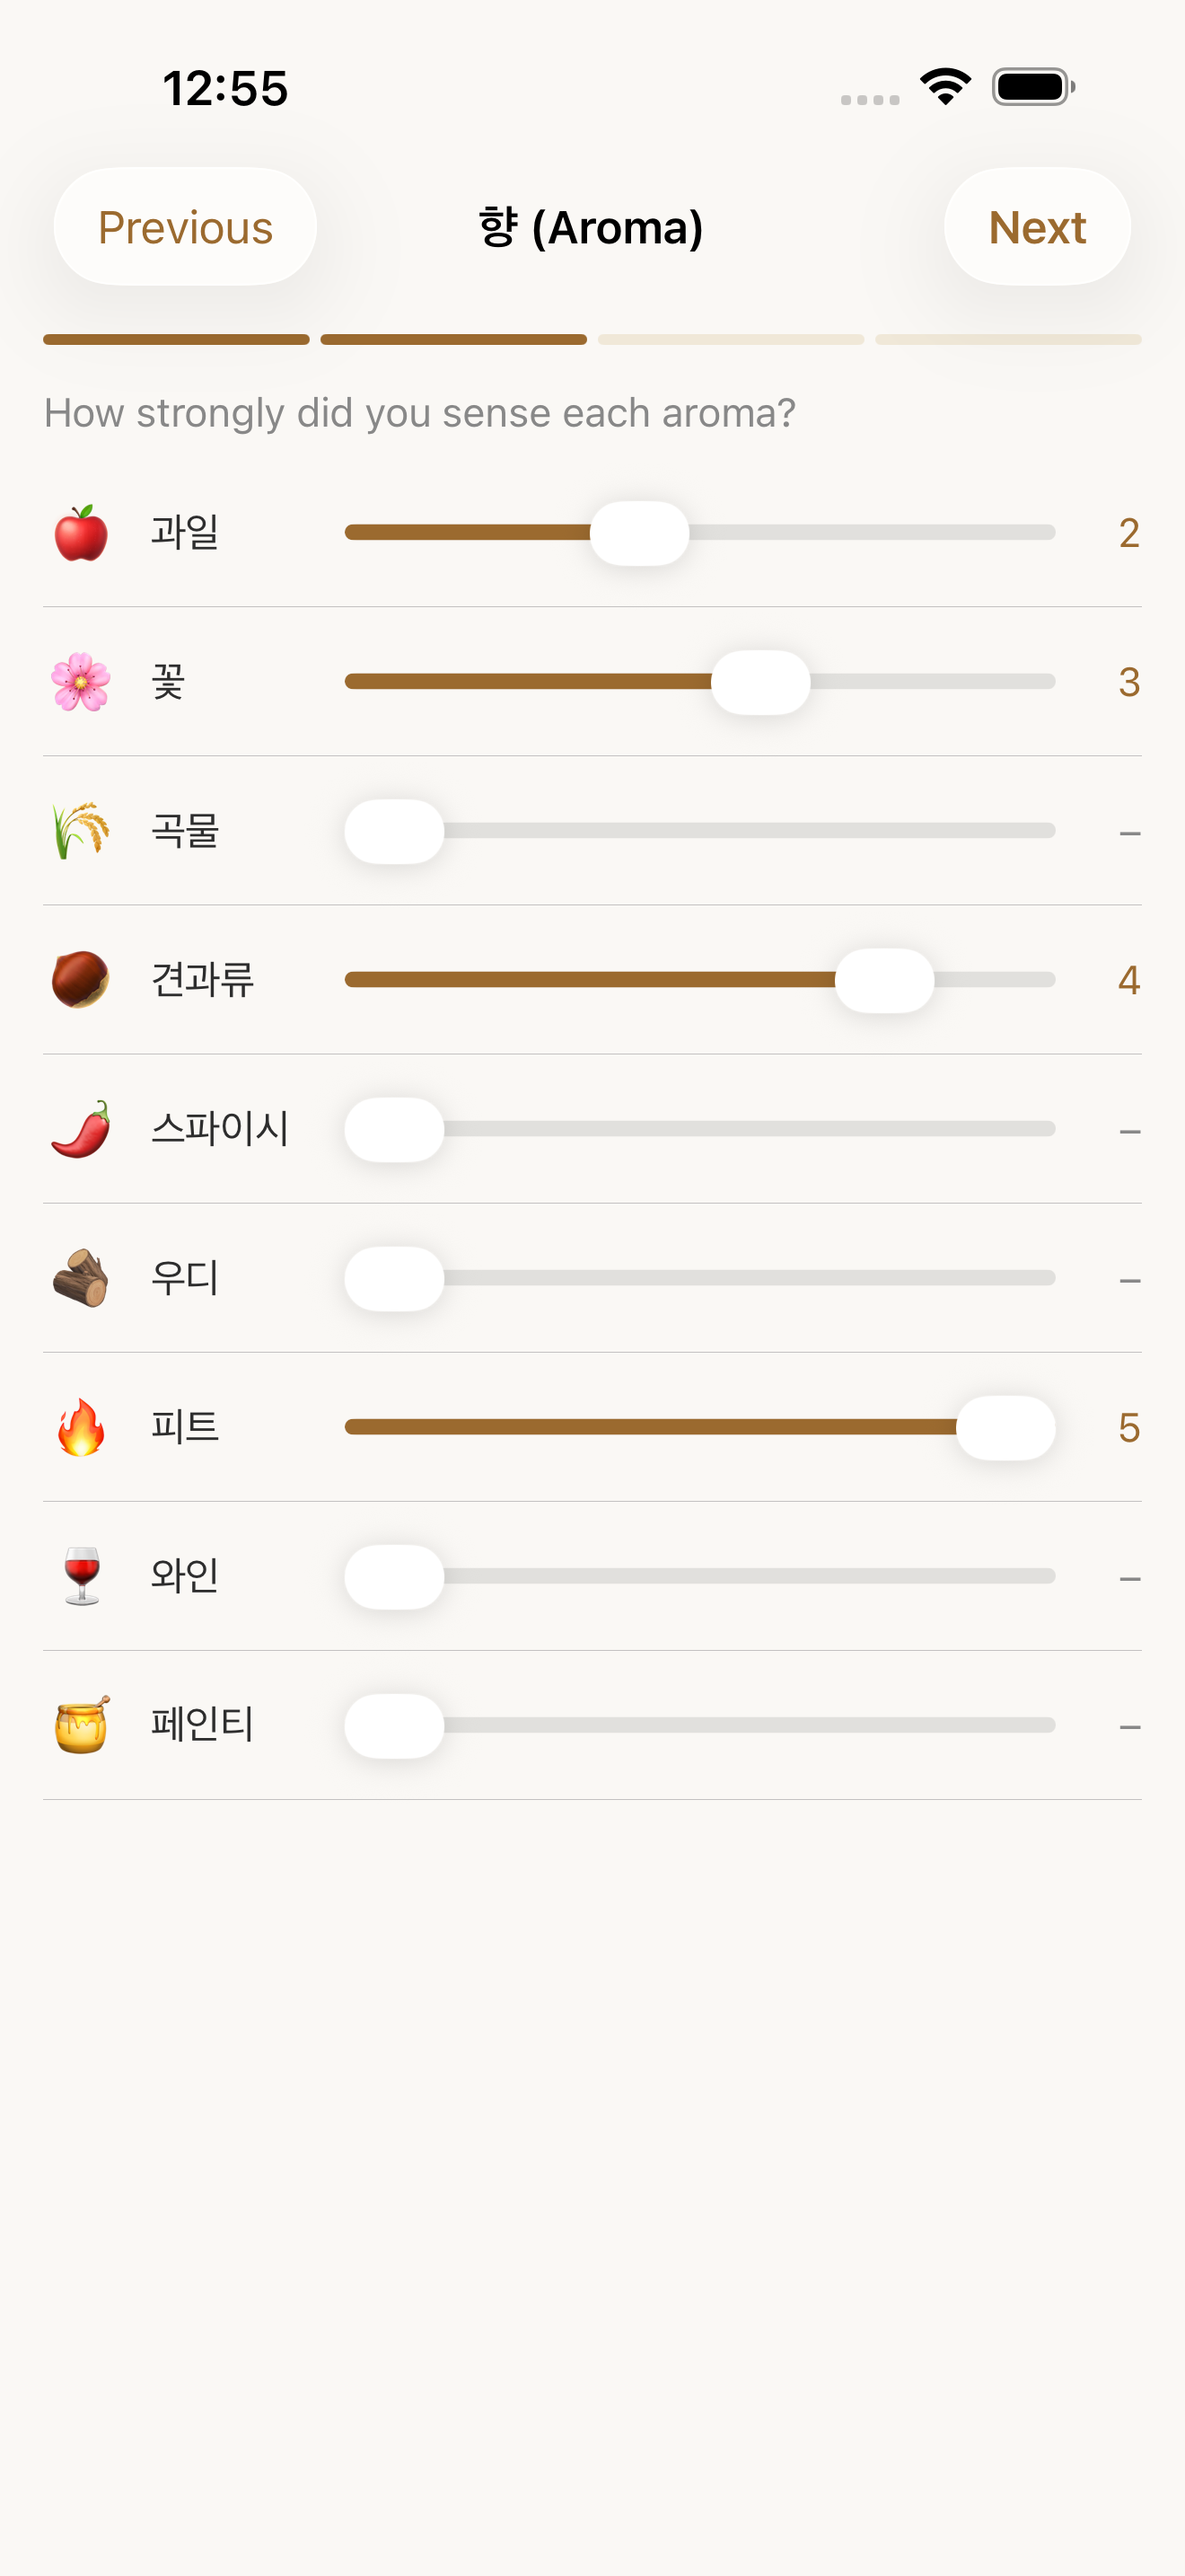
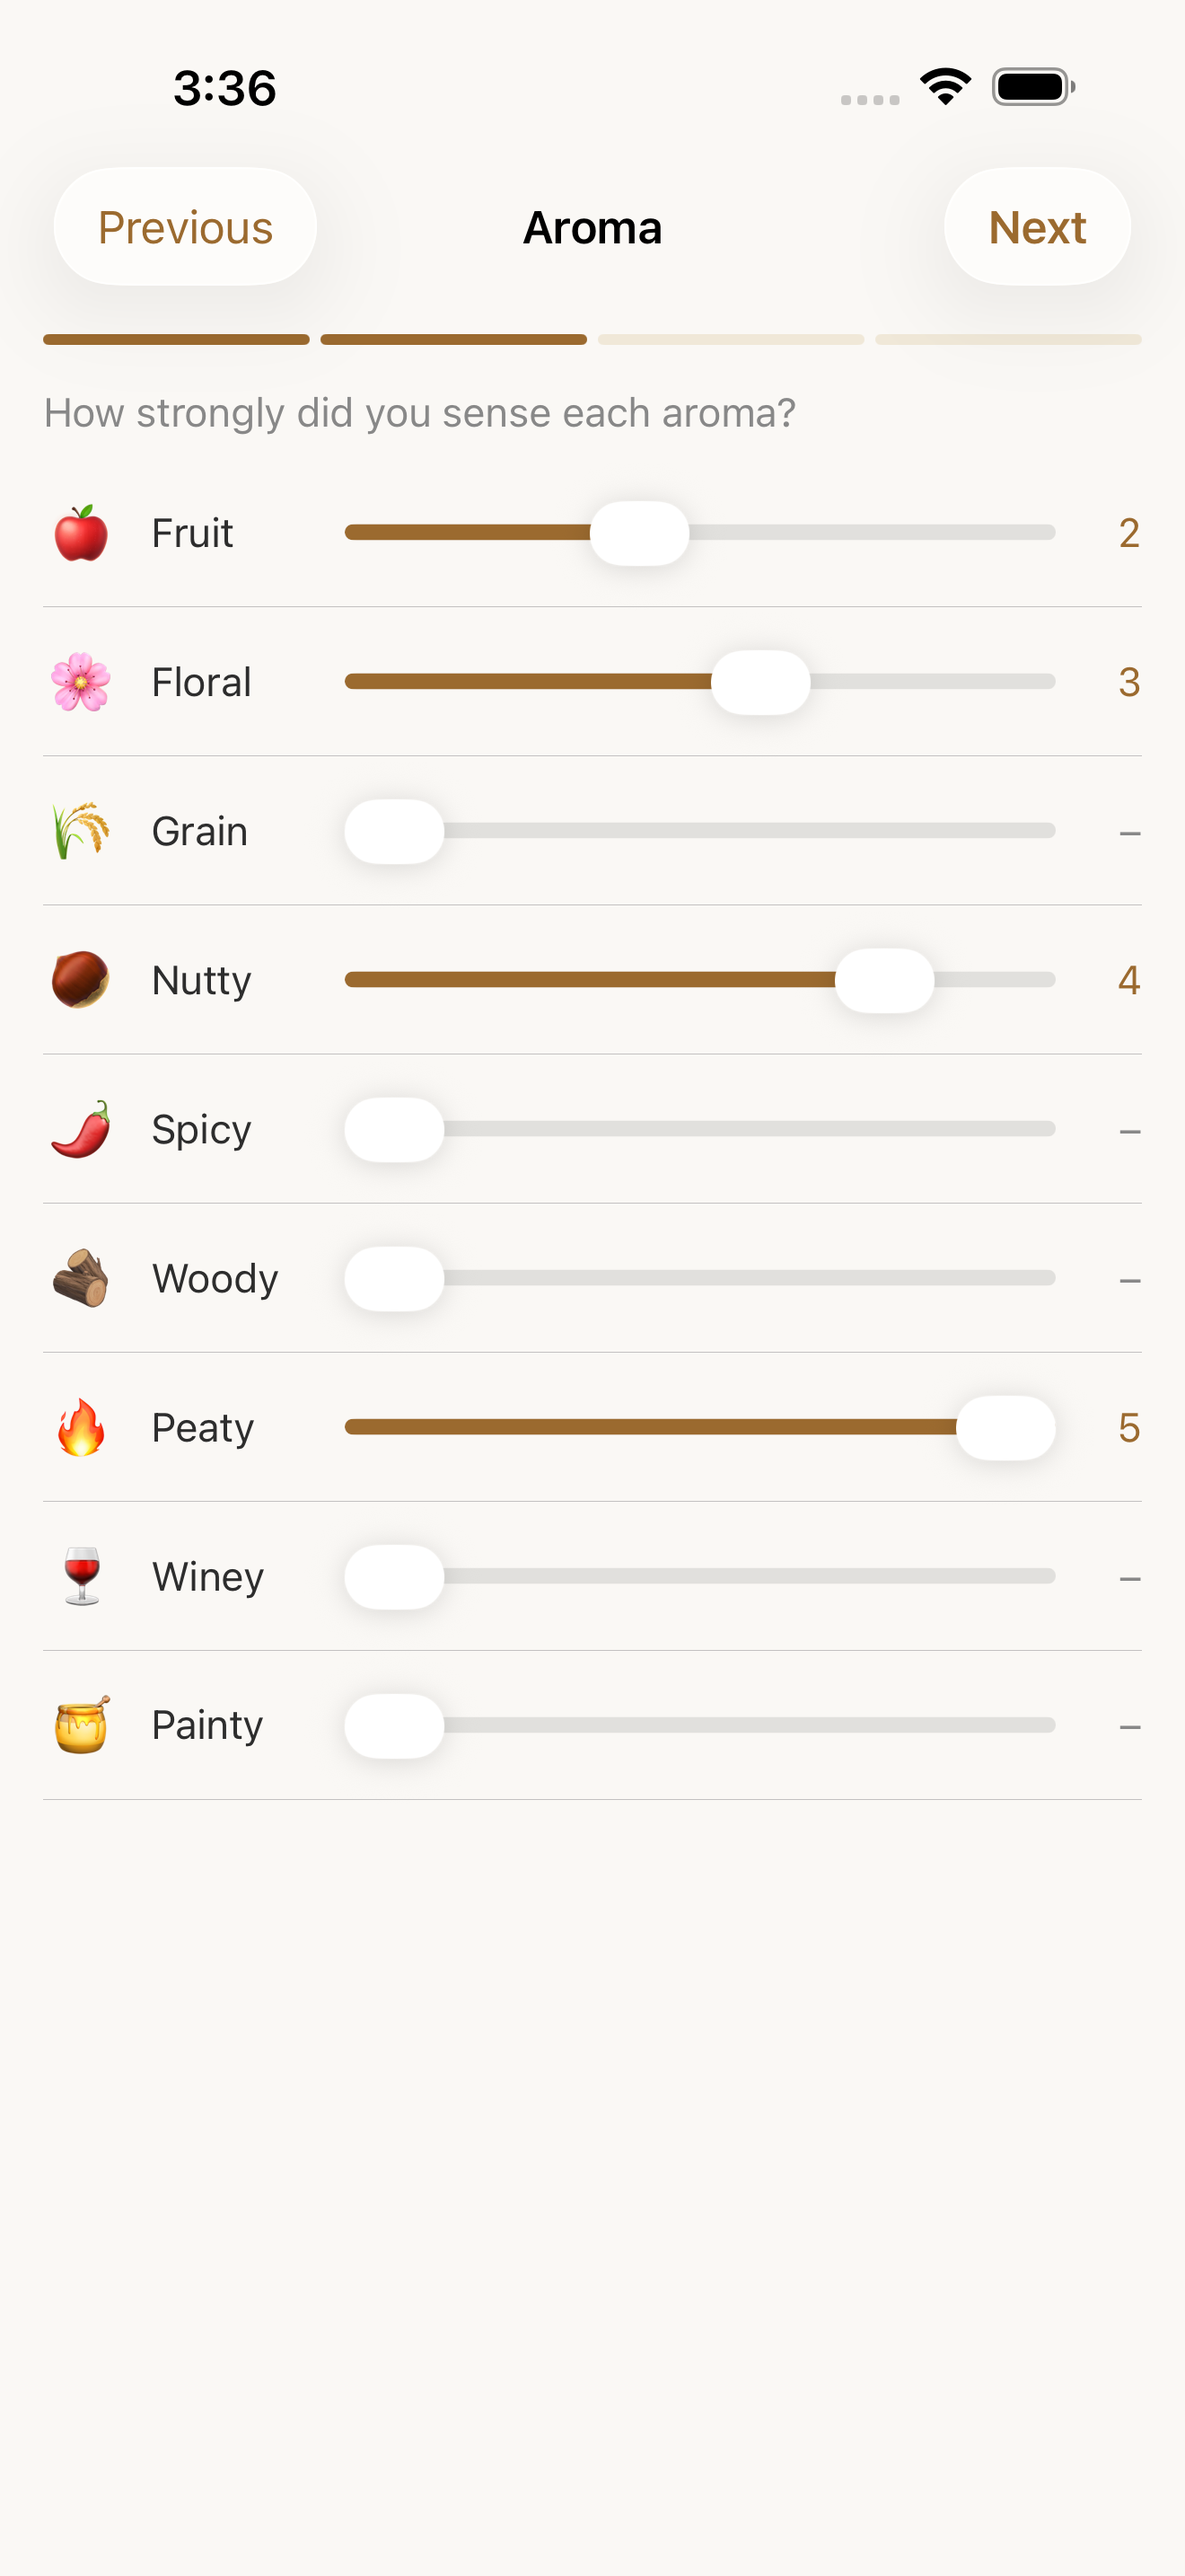
feat: 완전한 다국어(ko/en) 지원 구현
## 앱 코드 수정
- WhiskeyCategory: localizedName 추가 (String(localized:) 방식)
- Localizable.xcstrings: 카테고리 이름 6개 번역 추가
  (싱글 몰트/블렌디드/버번/아이리시/재패니즈/기타 ↔ Single Malt/Blended/...)
- FlavorSliderRow: Text(item.name) → Text(LocalizedStringKey(item.name))
- HomeView: statCell(label: LocalizedStringKey), topAromaName NSLocalizedString 적용
- NoteDetailView/NoteCardView: category localizedName, 플레이버명 NSLocalizedString
- WizardStep1View: formField(label: LocalizedStringKey), Picker → cat.localizedName
- WizardStep3View: Text(section.title) → Text(LocalizedStringKey(section.title))
- WizardStep4View: 삼항 연산자 → if/else (평가 없음 LocalizedStringKey 보장)
- NoteWizardView: stepTitle String(localized:) 적용 (accessibility 호환성 유지)
- StatsView: 향 이름 NSLocalizedString, 카테고리 localizedName 적용

## 스크린샷 재촬영
- ko/en 각 7장 전체 갱신 (다국어 완전 반영)

diff --git a/whiskey note/Views/Detail/NoteDetailView.swift b/whiskey note/Views/Detail/NoteDetailView.swift
@@ -99,7 +99,7 @@ struct NoteDetailView: View {
                 .font(.title2.bold())
                 .foregroundStyle(AppColors.textPrimary)
             HStack(spacing: 4) {
-                Text(note.category)
+                Text(WhiskeyCategory(rawValue: note.category)?.localizedName ?? note.category)
                 if let age = note.age { Text("· \(age)yr") }
                 if let abv = note.abv { Text(String(format: "· %.1f%%", abv)) }
                 if let price = note.price,
@@ -123,11 +123,11 @@ struct NoteDetailView: View {
                 .filter { $0.flavorType == section.type.rawValue && $0.intensity > 0 }
                 .sorted { $0.intensity > $1.intensity }
             if !items.isEmpty {
-                sectionHeader(section.title)
+                sectionHeader(LocalizedStringKey(section.title))
                 ForEach(items, id: \.id) { fi in
                     if let flavorItem = FlavorConstants.all.first(where: { $0.name == fi.name }) {
                         HStack {
-                            Text("\(flavorItem.emoji) \(fi.name)")
+                            Text("\(flavorItem.emoji) \(NSLocalizedString(fi.name, comment: ""))")
                                 .font(.subheadline)
                                 .foregroundStyle(AppColors.textPrimary)
                             Spacer()
@@ -146,7 +146,7 @@ struct NoteDetailView: View {
         }
     }
 
-    private func sectionHeader(_ title: String) -> some View {
+    private func sectionHeader(_ title: LocalizedStringKey) -> some View {
         Text(title)
             .font(.headline)
             .foregroundStyle(AppColors.accent)

diff --git a/whiskey note/Views/Stats/StatsView.swift b/whiskey note/Views/Stats/StatsView.swift
@@ -64,7 +64,7 @@ struct StatsView: View {
                 let maxAvg = topAromaData.first?.avg ?? 1
                 ForEach(topAromaData, id: \.name) { item in
                     HStack(spacing: 8) {
-                        Text("\(item.emoji) \(item.name)")
+                        Text("\(item.emoji) \(NSLocalizedString(item.name, comment: ""))")
                             .font(.subheadline)
                             .frame(width: 90, alignment: .leading)
                         GeometryReader { geo in
@@ -104,7 +104,7 @@ struct StatsView: View {
                 .foregroundStyle(AppColors.accent)
             FlowLayout(spacing: 8) {
                 ForEach(categoryCounts, id: \.category) { item in
-                    Text("\(item.category) \(Int(item.pct.rounded()))%")
+                    Text("\(WhiskeyCategory(rawValue: item.category)?.localizedName ?? item.category) \(Int(item.pct.rounded()))%")
                         .font(.caption)
                         .padding(.horizontal, 10)
                         .padding(.vertical, 5)

diff --git a/whiskey note/Views/NoteList/NoteCardView.swift b/whiskey note/Views/NoteList/NoteCardView.swift
@@ -26,7 +26,7 @@ struct NoteCardView: View {
             }
 
             HStack(spacing: 4) {
-                Text(note.category)
+                Text(WhiskeyCategory(rawValue: note.category)?.localizedName ?? note.category)
                 if let abv = note.abv {
                     Text("·")
                     Text(String(format: "%.1f%%", abv))
@@ -43,7 +43,7 @@ struct NoteCardView: View {
                 HStack(spacing: 6) {
                     ForEach(topAromaTags, id: \.id) { fi in
                         if let item = FlavorConstants.all.first(where: { $0.name == fi.name }) {
-                            Text("\(item.emoji) \(fi.name)")
+                            Text("\(item.emoji) \(NSLocalizedString(fi.name, comment: ""))")
                                 .font(.caption2)
                                 .padding(.horizontal, 8)
                                 .padding(.vertical, 3)

diff --git a/whiskey note/Views/Wizard/WizardStep1View.swift b/whiskey note/Views/Wizard/WizardStep1View.swift
@@ -59,7 +59,7 @@ struct WizardStep1View: View {
                     formField(label: "종류") {
                         Picker("종류", selection: $category) {
                             ForEach(WhiskeyCategory.allCases, id: \.rawValue) { cat in
-                                Text(cat.rawValue).tag(cat.rawValue)
+                                Text(cat.localizedName).tag(cat.rawValue)
                             }
                         }
                         .pickerStyle(.menu)
@@ -92,7 +92,7 @@ struct WizardStep1View: View {
     }
 
     @ViewBuilder
-    private func formField<Content: View>(label: String, @ViewBuilder content: () -> Content) -> some View {
+    private func formField<Content: View>(label: LocalizedStringKey, @ViewBuilder content: () -> Content) -> some View {
         VStack(alignment: .leading, spacing: 6) {
             Text(label)
                 .font(.caption)

diff --git a/whiskey note/Views/Wizard/WizardStep4View.swift b/whiskey note/Views/Wizard/WizardStep4View.swift
@@ -16,9 +16,15 @@ struct WizardStep4View: View {
                     HStack {
                         StarRatingView(rating: $rating)
                         Spacer()
-                        Text(rating == 0 ? "평가 없음" : String(format: "%.1f", rating))
-                            .font(.subheadline)
-                            .foregroundStyle(AppColors.textSecondary)
+                        Group {
+                            if rating == 0 {
+                                Text("평가 없음")
+                            } else {
+                                Text(String(format: "%.1f", rating))
+                            }
+                        }
+                        .font(.subheadline)
+                        .foregroundStyle(AppColors.textSecondary)
                     }
                 }
 

diff --git a/whiskey note/Views/Home/HomeView.swift b/whiskey note/Views/Home/HomeView.swift
@@ -30,7 +30,8 @@ struct HomeView: View {
         }
         let name = sorted.first!.key
         let emoji = FlavorConstants.all.first { $0.name == name }?.emoji ?? ""
-        return "\(emoji) \(name)"
+        let localizedName = NSLocalizedString(name, comment: "")
+        return "\(emoji) \(localizedName)"
     }
 
     var body: some View {
@@ -88,7 +89,7 @@ struct HomeView: View {
         .shadow(color: .black.opacity(0.04), radius: 4, y: 2)
     }
 
-    private func statCell(label: String, value: String) -> some View {
+    private func statCell(label: LocalizedStringKey, value: String) -> some View {
         VStack(spacing: 4) {
             Text(value).font(.headline).foregroundStyle(AppColors.textPrimary)
             Text(label).font(.caption).foregroundStyle(AppColors.textSecondary)

diff --git a/whiskey note/Constants/FlavorConstants.swift b/whiskey note/Constants/FlavorConstants.swift
@@ -7,6 +7,17 @@ enum WhiskeyCategory: String, CaseIterable, Codable {
     case irish      = "Irish"
     case japanese   = "Japanese"
     case other      = "Other"
+
+    var localizedName: String {
+        switch self {
+        case .singleMalt: String(localized: "싱글 몰트")
+        case .blended:    String(localized: "블렌디드")
+        case .bourbon:    String(localized: "버번")
+        case .irish:      String(localized: "아이리시")
+        case .japanese:   String(localized: "재패니즈")
+        case .other:      String(localized: "기타")
+        }
+    }
 }
 
 enum FlavorType: String, CaseIterable, Codable {

diff --git a/whiskey note/Views/Wizard/NoteWizardView.swift b/whiskey note/Views/Wizard/NoteWizardView.swift
@@ -110,10 +110,10 @@ struct NoteWizardView: View {
 
     private var stepTitle: String {
         switch currentStep {
-        case 1: "사진 & 기본 정보"
-        case 2: "향 (Aroma)"
-        case 3: "맛·질감·마무리"
-        default: "총평"
+        case 1: String(localized: "사진 & 기본 정보")
+        case 2: String(localized: "향 (Aroma)")
+        case 3: String(localized: "맛·질감·마무리")
+        default: String(localized: "총평")
         }
     }
 

diff --git a/whiskey note/Views/Wizard/WizardStep3View.swift b/whiskey note/Views/Wizard/WizardStep3View.swift
@@ -14,7 +14,7 @@ struct WizardStep3View: View {
             VStack(alignment: .leading, spacing: 20) {
                 ForEach(sections, id: \.title) { section in
                     VStack(alignment: .leading, spacing: 8) {
-                        Text(section.title)
+                        Text(LocalizedStringKey(section.title))
                             .font(.headline)
                             .foregroundStyle(AppColors.accent)
 

diff --git a/whiskey note/Views/Components/FlavorSliderRow.swift b/whiskey note/Views/Components/FlavorSliderRow.swift
@@ -10,7 +10,7 @@ struct FlavorSliderRow: View {
                 .font(.title3)
                 .frame(width: 28)
 
-            Text(item.name)
+            Text(LocalizedStringKey(item.name))
                 .font(.subheadline)
                 .foregroundStyle(AppColors.textPrimary)
                 .frame(width: 60, alignment: .leading)

diff --git a/whiskey noteUITests/ScreenshotTests.swift b/whiskey noteUITests/ScreenshotTests.swift
@@ -109,7 +109,7 @@ final class ScreenshotTests: XCTestCase {
         memoEditor.tap()
         memoEditor.typeText(memoText)
 
-        app.navigationBars.staticTexts["총평"].tap()
+        app.navigationBars.firstMatch.tap()
         Thread.sleep(forTimeInterval: 0.5)
 
         snapshot("07_위스키_추가_4")
